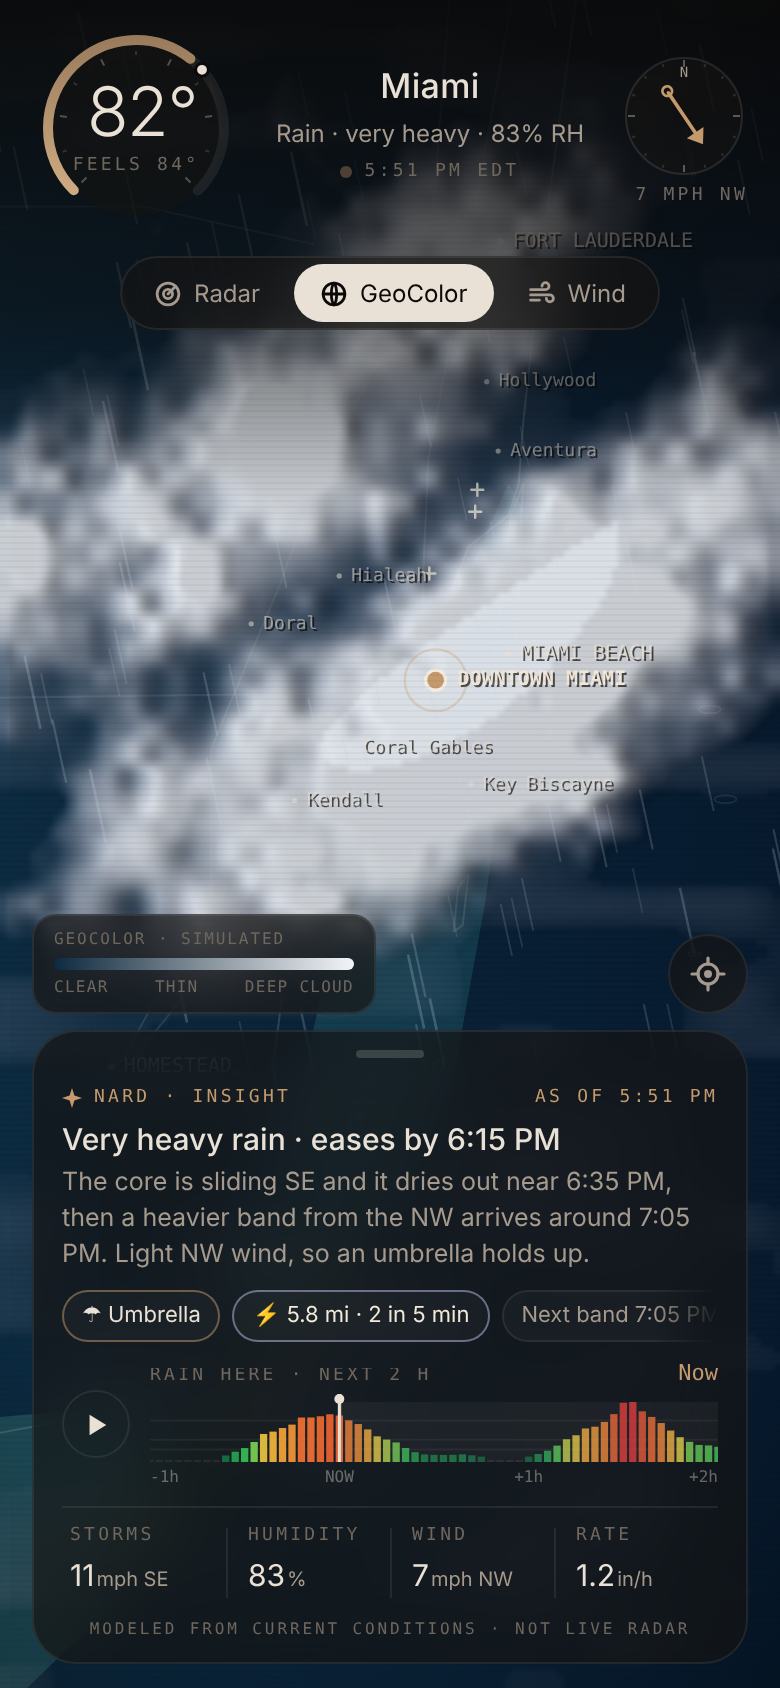
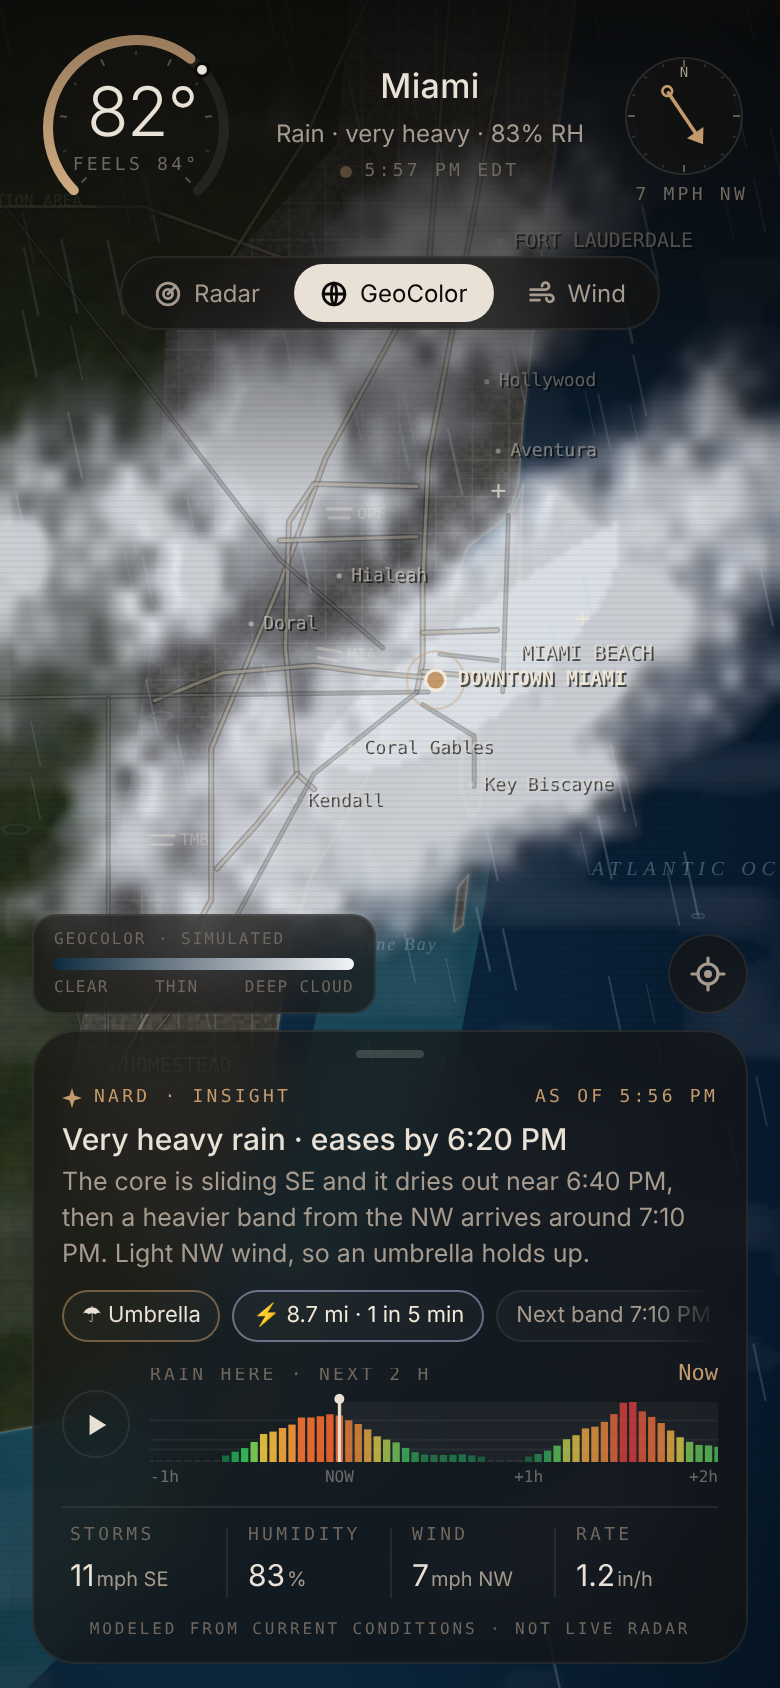
Real base map: street grid, expressways, airports, lakes, Bahamas
Coastline and roads move to an overlay above the weather so they stay
readable under heavy rain. Fixes the multi-polygon land clip that hid
the urban fill.

Claude-Session: https://claude.ai/code/session_01TtKyPgMwEDW9BVMJGRaUwT

diff --git a/index.html b/index.html
@@ -263,13 +263,36 @@ const URBAN = poly([[26.6,-80.24],[26.2,-80.28],[26.05,-80.43],[25.82,-80.44],[2
 const BAY = poly([[25.93,-80.13],[25.86,-80.165],[25.77,-80.17],[25.70,-80.21],[25.62,-80.27],[25.50,-80.30],[25.40,-80.32],[25.30,-80.37],
   [25.25,-80.36],[25.33,-80.25],[25.45,-80.18],[25.60,-80.15],[25.74,-80.13],[25.90,-80.11]]);
 const FLBAY = poly([[25.20,-80.45],[25.16,-80.95],[24.95,-81.10],[24.80,-80.75],[25.02,-80.50],[25.10,-80.42]]);
-const ROADS = [
-  poly([[26.45,-80.10],[26.12,-80.165],[25.95,-80.20],[25.85,-80.205],[25.79,-80.205],[25.765,-80.21]]),            // I-95
-  poly([[26.45,-80.17],[26.1,-80.20],[25.95,-80.29],[25.85,-80.33],[25.72,-80.39],[25.60,-80.39],[25.47,-80.47],[25.44,-80.48]]), // Turnpike
-  poly([[26.12,-80.30],[26.15,-80.45],[26.15,-81.40],[26.16,-81.75]]),                                                // I-75 / Alligator Alley
-  poly([[25.765,-80.20],[25.762,-80.45],[25.757,-80.85],[25.86,-81.36]]),                                            // Tamiami Trail
-  poly([[25.765,-80.21],[25.70,-80.30],[25.55,-80.39],[25.45,-80.48],[25.30,-80.40],[25.15,-80.40]]),                  // US-1
+const ROADS = [ // [class, points]: 1 interstate/expressway, 2 major road
+  [1, poly([[26.45,-80.10],[26.12,-80.165],[25.95,-80.20],[25.85,-80.205],[25.79,-80.205],[25.765,-80.21]])],              // I-95
+  [1, poly([[26.45,-80.17],[26.1,-80.20],[25.95,-80.29],[25.85,-80.33],[25.72,-80.39],[25.60,-80.39],[25.47,-80.47],[25.44,-80.48]])], // Turnpike
+  [1, poly([[26.10,-80.30],[26.15,-80.45],[26.15,-81.40],[26.16,-81.75]])],                                              // I-75 / Alligator Alley
+  [1, poly([[25.928,-80.21],[25.93,-80.30],[25.90,-80.322],[25.80,-80.325],[25.70,-80.315],[25.688,-80.30]])],          // SR-826 Palmetto
+  [1, poly([[25.776,-80.195],[25.78,-80.25],[25.786,-80.30],[25.78,-80.38],[25.758,-80.44]])],                          // SR-836 Dolphin
+  [1, poly([[25.70,-80.315],[25.66,-80.35],[25.625,-80.385]])],                                                         // SR-874 Don Shula
+  [1, poly([[25.812,-80.205],[25.814,-80.14]])], [1, poly([[25.781,-80.205],[25.776,-80.14]])],                        // I-195, I-395
+  [1, poly([[26.098,-80.135],[26.10,-80.38]])], [1, poly([[26.10,-80.38],[26.20,-80.31],[26.32,-80.25]])],              // I-595, Sawgrass
+  [1, poly([[25.888,-80.21],[25.885,-80.33]])],                                                                         // SR-924 Gratigny
+  [2, poly([[25.765,-80.20],[25.762,-80.45],[25.757,-80.85],[25.86,-81.36]])],                                          // Tamiami Trail
+  [2, poly([[25.765,-80.21],[25.70,-80.30],[25.55,-80.39],[25.45,-80.48],[25.30,-80.40],[25.20,-80.38],[25.10,-80.44],[25.03,-80.51]])], // US-1 / Overseas
+  [2, poly([[25.80,-80.24],[25.87,-80.33],[26.0,-80.44],[26.3,-80.70],[26.6,-80.85]])],                                 // US-27
+  [2, poly([[25.76,-80.48],[25.47,-80.48]])], [2, poly([[25.43,-80.47],[25.29,-80.37]])],                              // Krome, Card Sound
+  [2, poly([[25.755,-80.205],[25.73,-80.16],[25.69,-80.16]])], [2, poly([[25.795,-80.19],[25.79,-80.14]])],             // Rickenbacker, Venetian
+  [2, poly([[25.905,-80.13],[25.765,-80.135]])],                                                                       // Collins Ave
 ];
+const LAKES = [poly([[27.20,-80.85],[27.15,-80.70],[26.98,-80.62],[26.80,-80.65],[26.70,-80.78],[26.75,-80.95],[26.90,-81.05],[27.08,-80.98]])];
+const BAHAMAS = [
+  poly([[25.775,-79.265],[25.72,-79.30],[25.68,-79.295],[25.70,-79.27],[25.74,-79.255]]),                                   // Bimini
+  poly([[25.55,-79.27],[25.50,-79.285],[25.49,-79.275],[25.53,-79.26]]),                                                   // Cat Cay
+  poly([[26.72,-79.00],[26.66,-78.80],[26.62,-78.55],[26.55,-78.35],[26.51,-78.37],[26.53,-78.62],[26.58,-78.85],[26.66,-79.0]]), // Grand Bahama
+  poly([[25.1,-78.2],[24.6,-77.8],[24.3,-77.9],[24.2,-78.2],[24.7,-78.4],[25.2,-78.35]]),                                 // Andros
+];
+const AIRPORTS = [["MIA", 25.795, -80.287, 100], ["FLL", 26.072, -80.152, 125], ["OPF", 25.907, -80.278, 90], ["TMB", 25.648, -80.433, 90]]
+  .map(([n, la, lo, rot]) => { const [x, y] = km(la, lo); return { n, x, y, rot }; });
+const WATER_LABELS = [["ATLANTIC OCEAN", 25.62, -79.95], ["Biscayne Bay", 25.56, -80.245], ["Florida Bay", 25.03, -80.75],
+  ["Gulf of Mexico", 25.55, -81.55], ["Lake Okeechobee", 26.95, -80.83], ["Bimini", 25.73, -79.33]].map(([n, la, lo]) => { const [x, y] = km(la, lo); return { n, x, y }; });
+const PARKS = [["Everglades National Park", 25.40, -80.80], ["Water Conservation Area", 26.15, -80.60], ["Biscayne National Park", 25.40, -80.13]]
+  .map(([n, la, lo]) => { const [x, y] = km(la, lo); return { n, x, y }; });
 const PLACES = [
   // name, lat, lon, tier (1 always shown, 2/3 as you zoom in)
   ["Miami", 25.7743, -80.1937, 1], ["Miami Beach", 25.795, -80.130, 1], ["Fort Lauderdale", 26.122, -80.137, 1], ["Homestead", 25.468, -80.477, 1],
@@ -430,7 +453,7 @@ for (let i = 0; i <= 160; i++) {
   while (k < RADAR_STOPS.length - 2 && d > RADAR_STOPS[k + 1][0]) k++;
   const A = RADAR_STOPS[k], B = RADAR_STOPS[k + 1], f = clamp((d - A[0]) / (B[0] - A[0]), 0, 1);
   const o = i * 4; LUT[o] = lerp(A[1], B[1], f); LUT[o + 1] = lerp(A[2], B[2], f); LUT[o + 2] = lerp(A[3], B[3], f);
-  LUT[o + 3] = d < 15 ? 0 : lerp(A[4], B[4], f) * 255;
+  LUT[o + 3] = d < 15 ? 0 : lerp(A[4], B[4], f) * 255 * .85;
 }
 const lutCss = (db, a = 1) => { const o = Math.round(clamp(db, 0, 80) * 2) * 4; return `rgba(${LUT[o]},${LUT[o + 1]},${LUT[o + 2]},${a})`; };
 function windColor(mph, a) {
@@ -441,6 +464,7 @@ function windColor(mph, a) {
 /* ---------------- canvases ---------------- */
 const cv = document.getElementById("map"), ctx = cv.getContext("2d");
 const base = document.createElement("canvas"), bctx = base.getContext("2d");
+const ovl = document.createElement("canvas"), octx = ovl.getContext("2d");   // coast + roads drawn above the weather
 const trail = document.createElement("canvas"), tctx = trail.getContext("2d");
 const fieldC = document.createElement("canvas"), fctx = fieldC.getContext("2d");
 const shadowC = document.createElement("canvas"), sctx = shadowC.getContext("2d");
@@ -450,7 +474,7 @@ let landPattern = null, urbanPattern = null;
 
 function resize() {
   DPR = Math.min(2, devicePixelRatio || 1); W = innerWidth; H = innerHeight; AY = H * 0.43;
-  for (const c of [cv, base, trail]) { c.width = W * DPR | 0; c.height = H * DPR | 0; }
+  for (const c of [cv, base, ovl, trail]) { c.width = W * DPR | 0; c.height = H * DPR | 0; }
   cv.style.width = W + "px"; cv.style.height = H + "px";
   GW = Math.ceil(W / STEP); GH = Math.ceil(H / STEP);
   fieldC.width = shadowC.width = GW; fieldC.height = shadowC.height = GH; img = fctx.createImageData(GW, GH); simg = sctx.createImageData(GW, GH);
@@ -476,43 +500,83 @@ function makePatterns() {
 
 function pathOf(g, pts) { g.beginPath(); pts.forEach(([x, y], i) => { const [sx, sy] = w2s(x, y); i ? g.lineTo(sx, sy) : g.moveTo(sx, sy); }); g.closePath(); }
 function lineOf(g, pts) { g.beginPath(); pts.forEach(([x, y], i) => { const [sx, sy] = w2s(x, y); i ? g.lineTo(sx, sy) : g.moveTo(sx, sy); }); }
+// adds a closed ring to the current path (no beginPath), for multi-polygon clips
+function ringOf(g, pts) { pts.forEach(([x, y], i) => { const [sx, sy] = w2s(x, y); i ? g.lineTo(sx, sy) : g.moveTo(sx, sy); }); g.closePath(); }
 
 function drawBase() {
   const g = bctx; g.setTransform(DPR, 0, 0, DPR, 0, 0);
-  const geo = mode === "geo";
-  // water
-  if (geo) { const gr = g.createLinearGradient(W, 0, 0, 0); gr.addColorStop(0, "#071a2e"); gr.addColorStop(1, "#0c2a40"); g.fillStyle = gr; }
-  else g.fillStyle = "#0c0e11";
-  g.fillRect(0, 0, W, H);
+  const geo = mode === "geo", land = [MAINLAND, ...ISLANDS, ...BAHAMAS];
+  const clipLand = () => { g.beginPath(); for (const p of land) ringOf(g, p); g.clip(); };
+  // water: deep Atlantic east of the Gulf Stream edge, shallower bays inshore
+  const gr = g.createLinearGradient(...w2s(-20, 0), ...w2s(40, 0));
+  if (geo) { gr.addColorStop(0, "#0d2c44"); gr.addColorStop(1, "#061628"); } else { gr.addColorStop(0, "#0e171f"); gr.addColorStop(1, "#091017"); }
+  g.fillStyle = gr; g.fillRect(0, 0, W, H);
+  g.fillStyle = geo ? "rgba(46,120,128,.4)" : "rgba(70,110,130,.07)"; pathOf(g, BAY); g.fill(); pathOf(g, FLBAY); g.fill();
   if (geo) {
-    g.fillStyle = "rgba(40,110,120,.35)"; pathOf(g, BAY); g.fill();
-    g.fillStyle = "rgba(60,130,125,.38)"; pathOf(g, FLBAY); g.fill();
-  }
-  // land
-  const land = [MAINLAND, ...ISLANDS];
-  if (geo) {
-    g.save(); g.beginPath(); for (const p of land) { lineOf(g, p); g.closePath(); } g.clip();
+    g.save(); clipLand();
     g.fillStyle = g.createPattern(landPattern, "repeat"); g.fillRect(0, 0, W, H);
     g.fillStyle = g.createPattern(urbanPattern, "repeat"); g.globalAlpha = .85; pathOf(g, URBAN); g.fill(); g.globalAlpha = 1;
     g.restore();
   } else {
-    g.fillStyle = "#1b1914"; for (const p of land) { pathOf(g, p); g.fill(); }
-    g.save(); g.fillStyle = "rgba(233,225,214,.022)"; g.beginPath(); for (const p of land) { lineOf(g, p); g.closePath(); } g.clip(); pathOf(g, URBAN); g.fill(); g.restore();
+    g.fillStyle = "#211f1a"; for (const p of land) { pathOf(g, p); g.fill(); }
+    g.save(); clipLand(); g.fillStyle = "#2a2722"; pathOf(g, URBAN); g.fill(); g.restore();
   }
-  // coast
-  g.lineJoin = "round"; g.lineWidth = 1; g.strokeStyle = geo ? "rgba(200,220,210,.18)" : "rgba(233,225,214,.28)";
-  for (const p of land) { pathOf(g, p); g.stroke(); }
-  // roads
-  g.strokeStyle = geo ? "rgba(230,220,200,.12)" : "rgba(233,225,214,.075)"; g.lineWidth = 1;
-  for (const r of ROADS) { lineOf(g, r); g.stroke(); }
+  // lakes
+  g.fillStyle = geo ? "#123448" : "#0e171f"; for (const p of LAKES) { pathOf(g, p); g.fill(); }
+  // Miami-Dade / Broward section-line grid: streets every mile, arterials every 2 miles
+  if (view.s > 2.5) {
+    g.save(); clipLand(); pathOf(g, URBAN); g.clip();
+    const mi = 1.609, [x0, y1] = s2w(0, 0), [x1, y0] = s2w(W, H);
+    for (const [stepMi, a, wdt] of [[1, geo ? .07 : .075, .6], [2, geo ? .1 : .11, .9]]) {
+      if (stepMi === 1 && view.s < 4.5) continue;
+      g.strokeStyle = `rgba(233,225,214,${a})`; g.lineWidth = wdt; g.beginPath();
+      const st = stepMi * mi;
+      for (let x = Math.floor(x0 / st) * st; x < x1; x += st) { const [sx] = w2s(x, 0); g.moveTo(sx, 0); g.lineTo(sx, H); }
+      for (let y = Math.floor(y0 / st) * st; y < y1; y += st) { const [, sy] = w2s(0, y); g.moveTo(0, sy); g.lineTo(W, sy); }
+      g.stroke();
+    }
+    g.restore();
+  }
   // graticule (HUD)
   if (!geo) {
-    g.strokeStyle = "rgba(233,225,214,.035)"; g.fillStyle = "rgba(233,225,214,.18)"; g.font = "8px ui-monospace, monospace";
+    g.strokeStyle = "rgba(233,225,214,.03)"; g.fillStyle = "rgba(233,225,214,.2)"; g.font = "8px ui-monospace, monospace";
     const [la1, lo1] = ll(...s2w(0, H)), [la2, lo2] = ll(...s2w(W, 0));
     for (let la = Math.ceil(la1 * 4) / 4; la < la2; la += .25) { const [, sy] = w2s(0, km(la, LON0)[1]); g.beginPath(); g.moveTo(0, sy); g.lineTo(W, sy); g.stroke(); g.fillText(la.toFixed(2) + "°N", 4, sy - 3); }
     for (let lo = Math.ceil(lo1 * 4) / 4; lo < lo2; lo += .25) { const [sx] = w2s(km(LAT0, lo)[0], 0); g.beginPath(); g.moveTo(sx, 0); g.lineTo(sx, H); g.stroke(); }
   }
+  drawOverlay();
   baseDirty = false;
+}
+function drawOverlay() {
+  const g = octx, geo = mode === "geo"; g.setTransform(DPR, 0, 0, DPR, 0, 0); g.clearRect(0, 0, W, H);
+  g.lineJoin = g.lineCap = "round";
+  // coastline: a soft halo then a crisp line, so it reads over heavy rain too
+  for (const [w, a] of [[3, .1], [1, geo ? .4 : .5]]) {
+    g.lineWidth = w; g.strokeStyle = `rgba(233,225,214,${a})`;
+    for (const p of [MAINLAND, ...ISLANDS, ...BAHAMAS, ...LAKES]) { pathOf(g, p); g.stroke(); }
+  }
+  // highways: dark casing + light core, like a road map
+  for (const [cls, pts] of ROADS) {
+    if (cls === 2 && view.s < 3) continue;
+    const core = cls === 1 ? 1.6 : 1, z = clamp(view.s / 6, .7, 1.8);
+    g.lineWidth = (core + 1.6) * z; g.strokeStyle = "rgba(8,8,8,.45)"; lineOf(g, pts); g.stroke();
+    g.lineWidth = core * z; g.strokeStyle = cls === 1 ? (geo ? "rgba(245,226,190,.55)" : "rgba(214,186,140,.5)") : "rgba(233,225,214,.3)"; lineOf(g, pts); g.stroke();
+  }
+  // airports: runway glyph + code
+  if (view.s > 3.5) for (const a of AIRPORTS) {
+    const [sx, sy] = w2s(a.x, a.y); g.save(); g.translate(sx, sy); g.rotate((a.rot - 90) * RAD);
+    g.strokeStyle = "rgba(233,225,214,.65)"; g.lineWidth = 1.6; g.beginPath(); g.moveTo(-6, -2); g.lineTo(6, -2); g.moveTo(-5, 2.5); g.lineTo(5, 2.5); g.stroke();
+    g.restore(); g.font = "8px ui-monospace, monospace"; g.fillStyle = "rgba(233,225,214,.6)"; g.fillText(a.n, sx + 9, sy + 3);
+  }
+  // water + park names
+  g.textAlign = "center";
+  for (const w of WATER_LABELS) { const [sx, sy] = w2s(w.x, w.y);
+    g.font = `italic ${w.n === w.n.toUpperCase() ? 10 : 9}px ui-serif, Georgia, serif`; g.fillStyle = geo ? "rgba(190,220,235,.55)" : "rgba(140,175,200,.5)";
+    if (g.letterSpacing !== undefined) g.letterSpacing = w.n === w.n.toUpperCase() ? "3px" : "1px"; g.fillText(w.n, sx, sy); }
+  if (g.letterSpacing !== undefined) g.letterSpacing = "0px";
+  if (view.s > 3) for (const p of PARKS) { const [sx, sy] = w2s(p.x, p.y);
+    g.font = "8px ui-monospace, monospace"; g.fillStyle = geo ? "rgba(200,225,190,.5)" : "rgba(150,170,130,.45)"; g.fillText(p.n.toUpperCase(), sx, sy); }
+  g.textAlign = "start";
 }
 
 /* ---------------- field raster ---------------- */
@@ -856,11 +920,11 @@ document.getElementById("play").onclick = () => { if (!playing && tDisp >= T_MAX
   cv.addEventListener("wheel", e => { e.preventDefault(); zoomAt(e.clientX, e.clientY, Math.exp(-e.deltaY * .0015)); }, { passive: false });
 }
 function zoomAt(sx, sy, f) {
-  const [wx, wy] = s2w(sx, sy); view.s = clamp(view.s * f, 1.6, 40);
+  const [wx, wy] = s2w(sx, sy); view.s = clamp(view.s * f, 1.2, 40);
   const [nx, ny] = s2w(sx, sy); view.x += wx - nx; view.y += wy - ny; viewChanged();
 }
 function viewChanged() {
-  view.x = clamp(view.x, -160, 160); view.y = clamp(view.y, -160, 160);
+  view.x = clamp(view.x, -200, 220); view.y = clamp(view.y, -200, 200);
   baseDirty = true; tctx.setTransform(1, 0, 0, 1, 0, 0); tctx.clearRect(0, 0, trail.width, trail.height);
 }
 function setFocus(x, y) {
@@ -950,6 +1014,7 @@ function frame(now) {
   }
   ctx.imageSmoothingEnabled = true; ctx.imageSmoothingQuality = "high";
   ctx.drawImage(fieldC, 0, 0, W, H);
+  ctx.globalAlpha = mode === "geo" ? .55 : 1; ctx.drawImage(ovl, 0, 0, W, H); ctx.globalAlpha = 1;   // reference layer, softer over clouds
   if (mode === "radar") { drawSweep(rt); drawTrack(cores); }
   if (mode === "wind") { drawWind(dt, cores); ctx.drawImage(trail, 0, 0, W, H); }
   updateLightning(dt, cores, rt);

diff --git a/README.md b/README.md
@@ -4,8 +4,11 @@ Mobile-first Miami AI Weather Helper: a live radar map of South Florida with par
 practical insight. It's one self-contained file, `index.html`, with no dependencies and no build step. Open it in any browser.
 
 ## What's on screen
-- **Map**: stylised South Florida coast, Biscayne Bay, the Keys, I-95 / Turnpike / US-1 / Tamiami Trail, the KAMX radar
-  sweep and range rings. Drag to pan, pinch or scroll to zoom, tap anywhere to check that spot, ⌖ to come back to Miami.
+- **Map**: hand-traced South Florida coastline, barrier islands, Biscayne Bay, the Keys, Florida Bay, Lake Okeechobee and the
+  Bahamas (Bimini, Grand Bahama, Andros). Miami-Dade/Broward's 1-mile section-line street grid (arterials every 2 miles) and
+  the expressways: I-95, the Turnpike, I-75, the 826, 836, 874, 924, 195, 395, 595 and the Sawgrass, plus US-1, US-27,
+  Tamiami Trail, Krome and Card Sound. Also airports (MIA, FLL, OPF, TMB), water and park names, and the KAMX radar sweep
+  and range rings. The coastline and roads sit above the weather so they stay readable under heavy rain. Drag to pan, pinch or scroll to zoom, tap anywhere to check that spot, ⌖ to come back to Miami.
 - **Layers**: Radar (dBZ ramp green → yellow → orange → red → magenta), GeoColor (simulated satellite clouds lit by the
   low western sun, with shadows), Wind (streamlines, including gust-front outflow from the heavy cores).
 - **HUD**: temperature dial (feels-like marker), wind compass, and a bottom panel with the insight, a 3-hour rain strip for
